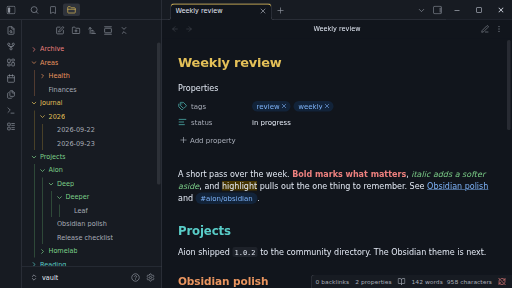
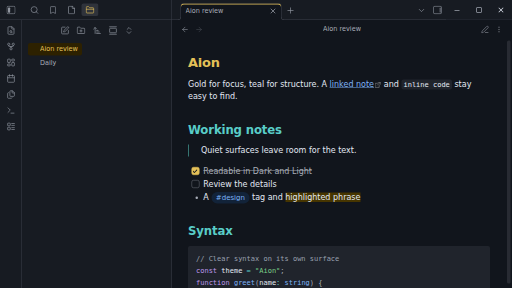
Prepare Aion 1.1.1 release

diff --git a/packages/obsidian/README.md b/packages/obsidian/README.md
@@ -25,7 +25,7 @@ both variants.
 ## Install manually
 
 1. In your vault, create `.obsidian/themes/Aion/`.
-2. Download `manifest.json` and `theme.css` from the [1.0.2 Obsidian release](https://github.com/sltsh/aion/releases/tag/1.0.2) into that folder.
+2. Download `manifest.json` and `theme.css` from the [1.1.1 Obsidian release](https://github.com/sltsh/aion/releases/tag/1.1.1) into that folder.
 3. In Obsidian, open **Settings → Appearance → Themes** and select **Aion**.
 4. Switch **Base color scheme** between **Dark** and **Light** to see both variants.
 
@@ -59,10 +59,9 @@ token and CSS packages. The normal `npm run build` handles dependency order. The
 test suite checks that the committed CSS matches its generator, both variants contain
 the same keys, and selected reading and focus pairs clear their contrast floors.
 
-The repository-root manifest and stylesheet were published in the 1.0.2 Obsidian release.
-The screenshots above show the unreleased colour and spacing changes, captured from the
-built sheet in an isolated Obsidian 1.13.7 vault. Desktop reading, Live Preview and Source
-mode were checked in both variants; the built-in phone emulator showed blue tags and
-property pills at 390px. Android and iOS hardware remain unchecked.
+The repository-root manifest and stylesheet are included in the 1.1.1 Obsidian release.
+The screenshots above were captured from the built sheet in an isolated Obsidian 1.13.7
+vault. Desktop reading, Live Preview and Source mode were checked in both variants;
+the built-in phone emulator was checked at 390px. Android and iOS hardware remain unchecked.
 The [Obsidian submission guide](https://docs.obsidian.md/themes/app-themes/submit-theme)
 also requires a community listing submission after the GitHub release.

diff --git a/PLAN.md b/PLAN.md
@@ -383,10 +383,14 @@ expand the calculated contrast gate.
 
 `feature/obsidian-highlight-code-folder-fit` removes the backing highlight when a tag
 is its only child, raises inline and fenced code together, and fits the active file row
-to its title. The generated sheet passed sync, verify, root tests and typecheck. In a
-scratch vault, Obsidian 1.13.7 on Linux showed the Dark reading-view tag pill without
-the protruding highlight, both code surfaces raised, and the active row ending at its
-title. Light and other native views still need acceptance for this revision.
+to its title. The generated sheet passed sync, verify, root tests and typecheck. For the
+1.1.1 release, Obsidian 1.13.7 on Linux showed the tag pill without the protruding
+highlight, separate plain-text highlights, matching inline and fenced code surfaces,
+and an active file fill shorter than its row in Dark and Light reading view. Live Preview
+and Source kept highlighted text and raised inline code in both schemes. Native context
+menus and Settings dialogs rendered in both schemes; Obsidian's built-in phone emulator
+showed the updated tag and code at 390px. The four `screenshots/` captures and the root
+community image use this built sheet. Physical phones and other platforms remain unchecked.
 
 ## Order and parallelism
 

diff --git a/CHANGELOG.md b/CHANGELOG.md
@@ -5,6 +5,15 @@ the versions follow Semantic Versioning.
 
 ## Unreleased
 
+## 1.1.1
+
+### Fixed
+
+- Obsidian: a tag inside a highlight keeps its blue pill without a rectangular highlight
+  extending beyond it.
+- Obsidian: inline and fenced code use a more distinct surface while code comments remain
+  readable, and the active file highlight fits the filename instead of filling the row.
+
 ## 1.1.0
 
 ### Changed
